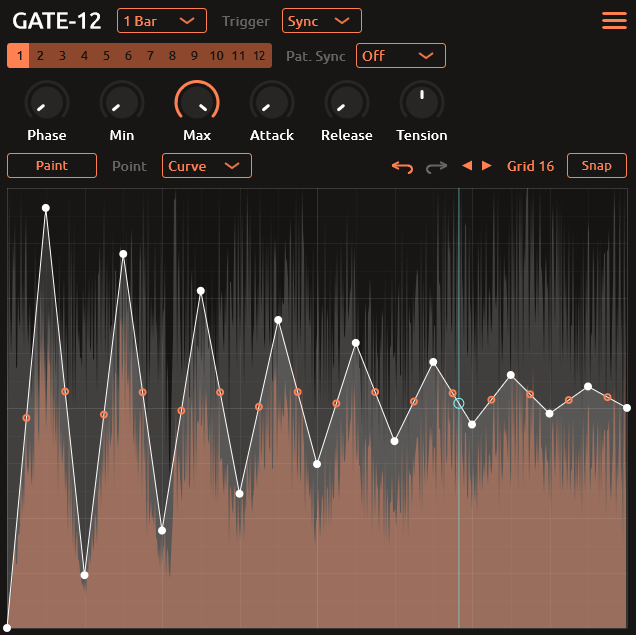
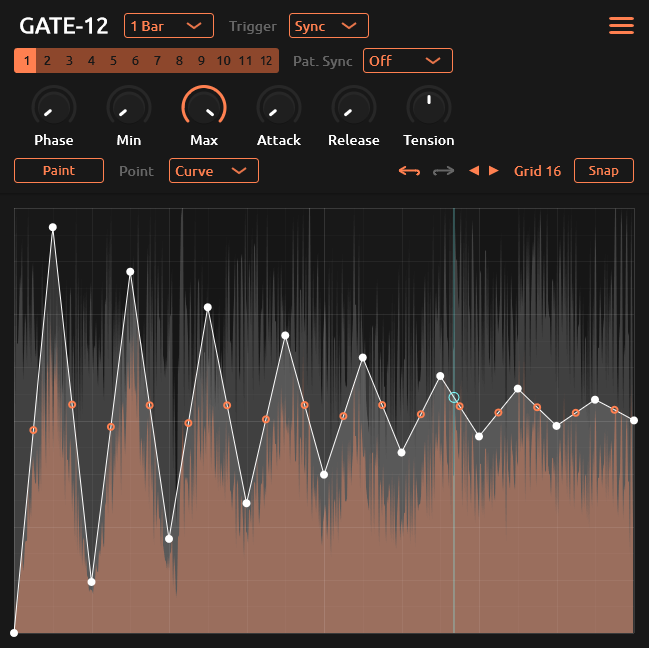
appearence changes

diff --git a/src/ui/Rotary.cpp b/src/ui/Rotary.cpp
@@ -143,9 +143,12 @@ void Rotary::draw_rotary_slider(juce::Graphics& g, float slider_pos) {
     auto bounds = getBounds();
     const float radius = 16.0f;
     const float angle = -deg130 + slider_pos * (deg130 - -deg130);
+    auto kbounds = Rectangle<float>(bounds.getWidth()/2.0f-radius, bounds.getHeight()/2.0f-radius-8.0f, radius*2.0f, radius*2.0f);
 
-    g.setColour(juce::Colour(COLOR_KNOB));
-    g.fillEllipse(bounds.getWidth()/2.0f-radius, bounds.getHeight()/2.0f-radius - 8.0f, radius*2.0f, radius*2.0f);
+    g.setColour(Colour(COLOR_KNOB).brighter(0.f));
+    g.fillEllipse(kbounds);
+    g.setColour(Colour(0x33000000));  // semi-transparent black
+    g.fillEllipse(kbounds.translated(0, 2.f).reduced(1.0f));
 
     g.setColour(Colour(COLOR_KNOB));
     juce::Path arcKnob;

diff --git a/src/PluginEditor.cpp b/src/PluginEditor.cpp
@@ -210,12 +210,12 @@ GATE12AudioProcessorEditor::GATE12AudioProcessorEditor (GATE12AudioProcessor& p)
     tension->setBounds(col,row,80,65);
     //col += 75;
 
-    tensionatk = std::make_unique<Rotary>(p, "tensionatk", "TAttack", LabelFormat::percx100, true);
+    tensionatk = std::make_unique<Rotary>(p, "tensionatk", "TAtt", LabelFormat::percx100, true);
     addAndMakeVisible(*tensionatk);
     tensionatk->setBounds(col,row,80,65);
     col += 75;
 
-    tensionrel = std::make_unique<Rotary>(p, "tensionrel", "TRelease", LabelFormat::percx100, true);
+    tensionrel = std::make_unique<Rotary>(p, "tensionrel", "TRel", LabelFormat::percx100, true);
     addAndMakeVisible(*tensionrel);
     tensionrel->setBounds(col,row,80,65);
     col += 75;

diff --git a/src/Globals.h b/src/Globals.h
@@ -8,7 +8,7 @@ namespace globals {
 	inline unsigned int COLOR_NEUTRAL = 0xff666666;
 	inline unsigned int COLOR_NEUTRAL_LIGHT = 0x99999999;
 	inline unsigned int COLOR_SEEK = 0xff80ffff;
-	inline unsigned int COLOR_KNOB = 0x11ffffff;
+	inline unsigned int COLOR_KNOB = 0xff272727;
 	inline unsigned int COLOR_AUDIO = 0xffffd42a;
 	inline unsigned int COLOR_MIDI = 0xff50a9ff;
 	inline unsigned int COLOR_SELECTION = 0xff50a9ff;
